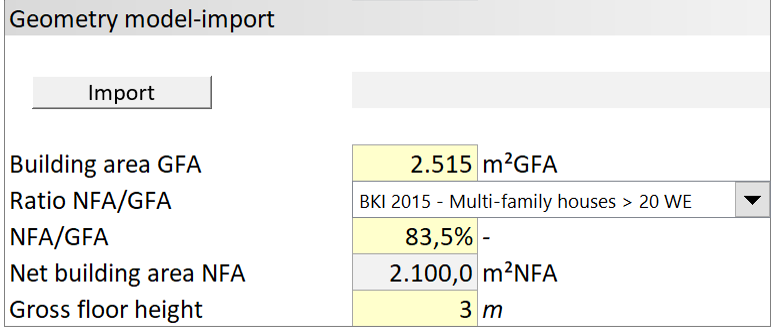
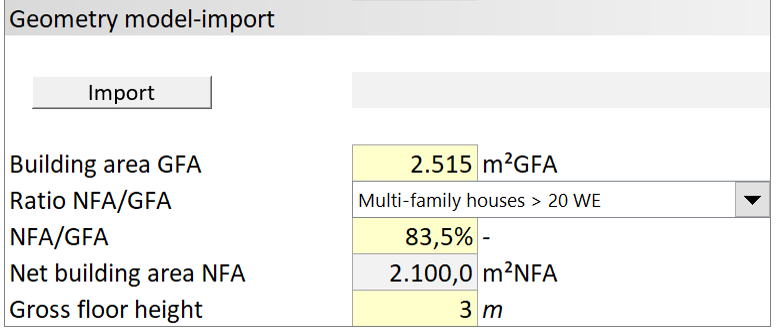
Minor adjustments of GenSim user manual.

Changed region(s): [[0.4627, 0.5689, 0.8946, 0.6287]]

diff --git a/docs/gensim_user_manual.md b/docs/gensim_user_manual.md
@@ -82,9 +82,7 @@ Ready-to-use weather data sets (epw + ddy) for worldwide locations can be downlo
 [http://climate.onebuilding.org/](http://climate.onebuilding.org/) 
 
 
-Furthermore the TRY of the DWD can be used to generate location-specific weather data sets for the whole of Germany which can then be converted into valid EnergyPlus weather data sets using the "EnergyPlus Weather Converter". For this purpose a separate and more detailed instruction can be found in the following folder path:
-
-*link coming soon*
+Furthermore the TRY of the DWD can be used to generate location-specific weather data sets for the whole of Germany which can then be converted into valid EnergyPlus weather data sets using the "EnergyPlus Weather Converter". A tool facilitating this workflow is currently under development and will be released soon.
 
 
 ###3.2 Building geometry
@@ -127,8 +125,7 @@ The orientation of the building can also be changed using a drop down menu (see 
 
 **Ratio NFA/GFA**
 
-As already mentioned only gross areas or volumes are represented in the EnergyPlus® model. In order to convert the absolute results of the simulation into area specific results with the unit \(Wh/m²_{NFA}\) the user now needs to specify the ratio GFA/NFA. This can either be entered as an individual value or it can be determined from previously stored characteristic values. Key figures from the Building Cost Index (BKI) and VDI 3807-2 have been stored for a variety of building typologies. 
-
+As already mentioned only gross areas or volumes are represented in the EnergyPlus® model. In order to convert the absolute results of the simulation into area specific results with the unit \(Wh/m²_{NFA}\) the user now needs to specify the ratio GFA/NFA. This can either be entered as an individual value or it can be determined from previously stored characteristic values. Key values for a variety of building typologies are available.
 
 
 **Window areas**
@@ -148,7 +145,7 @@ Optionally individual facade components as well as the roof and floor plate of t
 
 ####3.2.2 Imported geometry model
 
-As already mentioned an individual geometry model can optionally be created with the OpenStudio® SketchUp® plugin if the building geometry is known in more detail and/or significantly differs from a cubic shape. The osm-model file created this way can be imported into GenSim by the Import button (see following figure). A short tutorial on how to create your own geometry model can be found in the following section 5. Currently the GFA of the imported OpenStudio® model is not read in automatically so the user must enter it manually. If required, the actual GFA of the model can be read from the file "eplustbl.htm" in the "/Output/run" file path after a test simulation run (Total Building Area). The (gross) floor height of the imported geometry model itself must also be entered. 
+As already mentioned an individual geometry model can optionally be created with the OpenStudio® SketchUp® plugin if the building geometry is known in more detail and/or significantly differs from a cubic shape. The osm-model file created this way can be imported into GenSim by the Import button (see following figure). A short tutorial on how to create your own geometry model can be found in chapter 6. Currently the GFA of the imported OpenStudio® model is not read in automatically so the user must enter it manually. If required, the actual GFA of the model can be read from the file "eplustbl.htm" in the "/Output/run" file path after a test simulation run (Total Building Area). The (gross) floor height of the imported geometry model itself must also be entered. 
 
 ![import geometry model](fig\231115_import_geometry_model.png)
 
@@ -166,23 +163,24 @@ Up to 5 periods can be defined for public holidays/vacation days (see following 
 ![definition of holidays/ vacation days](fig\231025_definition_holidays.PNG)
 
 
-**Electrical devices and lightning**
+**Electrical devices and lighting**
 
 The type days for electrical devices and lighting are available in the form of standardised profiles. The range of values is therefore between 0 ... 1. Multiplying the corresponding power density in \(W/m²_{NFA}\) and the type day profile results in a profile in \(W/m²_{NFA}\). See the following figure: "Electrical devices" and "Lighting" drop-down menus as well as the "Electrical device power density" and "Lighting power density" parameters. 
 
-**Person occupancy**
+**Person occupancy and activity**
 
 Two separate type day profiles are defined for person occupancy. On the one hand a standardised profile describing the presence of persons (0...1) and on the other hand a profile describing the activity of the persons present in the unit power per person (\(W/pers\)). By multiplying these two profiles and the person occupancy in \(m²NFA/person\) the result is - like for electrical devices and lighting - a profile in \(W/m²_{NFA}\) (\(W/person\) * \(person/m²_{NFA}\)). 
 
 ![definition of the building usage](fig\231025_definition_building_usage.PNG)
 
-Complete profiles from various sources are already stored for all usage profiles: 
+Default values for these four categories are available, which were created using the characteristic values described in various sources:
 
-**SLP BDEW:** Standard load profiles from the German Association for Energy and Water Management    
-**DOE Prototype Buildings:** Commercial Prototype Building Models US Department of Energy   
-**DIN V 18500-10:** Energy performance of buildings Part 10     
-**VDI 2078: 1996-07:** Assessment of cooling load of air-conditioned rooms  
-It is also possible to define all profiles yourself. Custom profiles can be created using the "Own User Profiles" menu item and then selected in the respective drop-down menu (see figure). 
+* **SLP BDEW:** Standard load profiles from the German Association for Energy and Water Management
+* **DOE Prototype Buildings:** Commercial Prototype Building Models from the US Department of Energy
+* **DIN V 18599-10:** DIN standard *Energy performance of buildings* part 10
+* **VDI 2078: 1996-07:** VDI standard *Assessment of cooling load of air-conditioned rooms*
+
+It is also possible to define all profiles yourself. Custom profiles can be entered in the tab "Own User Profiles" and then selected in the respective drop-down menu (see figure).
 
 ![menu item own user profiles](fig\231025_menu_own_user_profile.png)
 
